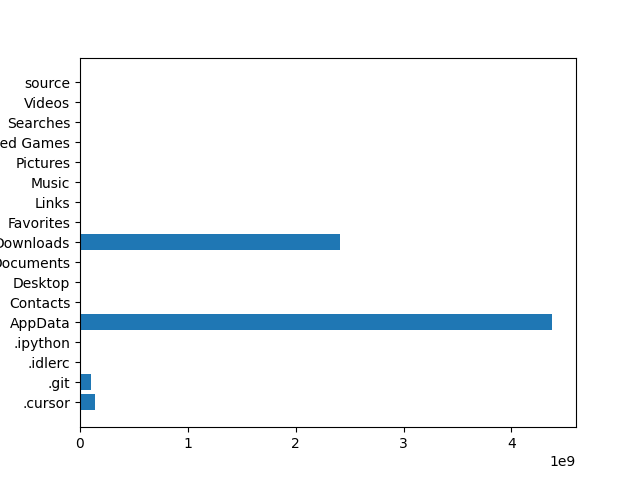
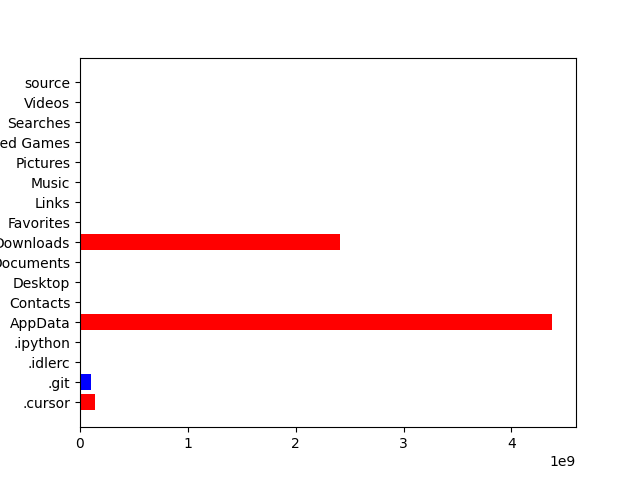
67

Changed region(s): [[0.125, 0.4688, 0.5312, 0.5312], [0.125, 0.6562, 0.875, 0.6875], [0.125, 0.7812, 0.1562, 0.875]]

diff --git a/step_3_3.py b/step_3_3.py
@@ -9,7 +9,7 @@ log_size = np.log(plot_data["size"])                                # 함수 log
                                                                       # 폴더 크기와 같이 특정 데이터의 크기가 지나치게 큰 경우 로그를 적용해 단위를 조정하면 이해하기 쉽게 시각화 가능
 fig, ax = plt.subplots(figsize=(16,9), dpi=100)                     # 함수 subplots()를 사용하여 객체 Figure와 Axes를 생성하고 각각 fig, ax 변수에 저장.
                                                                       # 이때 매개변수 figsize에 차트 크기를 (가로, 세로) 형식으로, dpi에 해상도를 전달하여 전체 해상도를 설정. 단위는 인치와 인치 당 픽셀
-ax.barh(plot_data["stem"], log_size)                                # 함수 barh()를 사용하여 바 차트를 그림. 이때 두 번째 입력값으로 log_size를 전달하여 가로축에 로그를 적용
+ax.barh(plot_data["stem"], log_size, color=['red', 'blue'])         # 함수 barh()를 사용하여 바 차트를 그림. 이때 두 번째 입력값으로 log_size를 전달하여 가로축에 로그를 적용
 ax.grid(True, axis="x")                                             # 함수 grid()를 사용하여 차트에 그리드를 출력. 이때 axis 매개변수의 갑으로 'both', 'x', 'y' 등을 전달하여 출력할 그리드의 형태를 설정 가능
 ax.tick_params(labelbottom=False, length=0, labelsize=20)           # 함수 tick_params()를 사용하여 축 눈금을 설정. 매개변수 labelbottom과 length에 각각 False와 0을 전달하여 X축 눈금을 지우고,
                                                                       # labelsize에 20을 전달하여 Y축 눈금의 폰트 크기를 설정

diff --git a/step_3_2.py b/step_3_2.py
@@ -6,5 +6,5 @@ from step_3_1 import load_plot_data
 plot_data = load_plot_data()
 fig, ax = plt.subplots()                                        # plt 모듈의 함수 subplots() 를 호출하여 객체 Figure와 Axes를 생성하고 각각 변수 fig, ax에 저장.
                                                                 # Figure는 차트의 배경을, Axes는 차트를 실제로 생성하고, 제목, 축 제목, 테두리 등 세부 설정을 처리
-ax.barh(plot_data["stem"], plot_data["size"])                   # 함수 barh()를 호출하여 바 차트를 그린다. 첫 번째 입력값으로 세로축에 사용할 폴더 이름을, 두 번째 입력값으로 가로축에 사용할 폴더 크기를 전달.
+ax.barh(plot_data["stem"], plot_data["size"], color=['red', 'blue'])         # 함수 barh()를 호출하여 바 차트를 그린다. 첫 번째 입력값으로 세로축에 사용할 폴더 이름을, 두 번째 입력값으로 가로축에 사용할 폴더 크기를 전달.
 fig.savefig(OUT_DIR / f"{Path(__file__).stem}.png")             # 함수 savefig()를 호출하여 fig에 저장된 차트를 png 파일로 저장.
